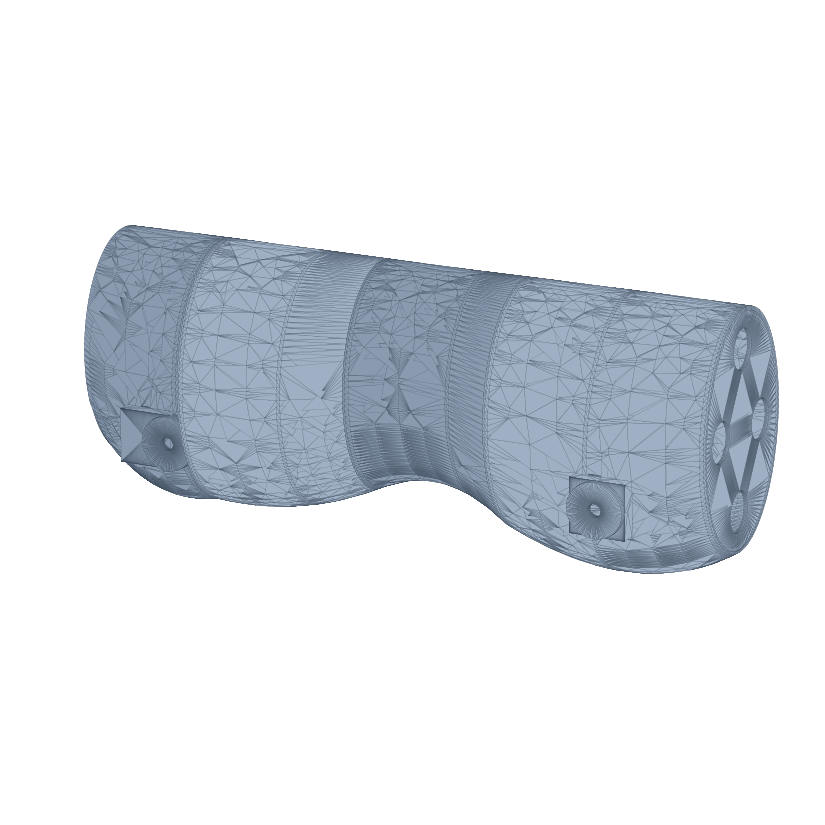
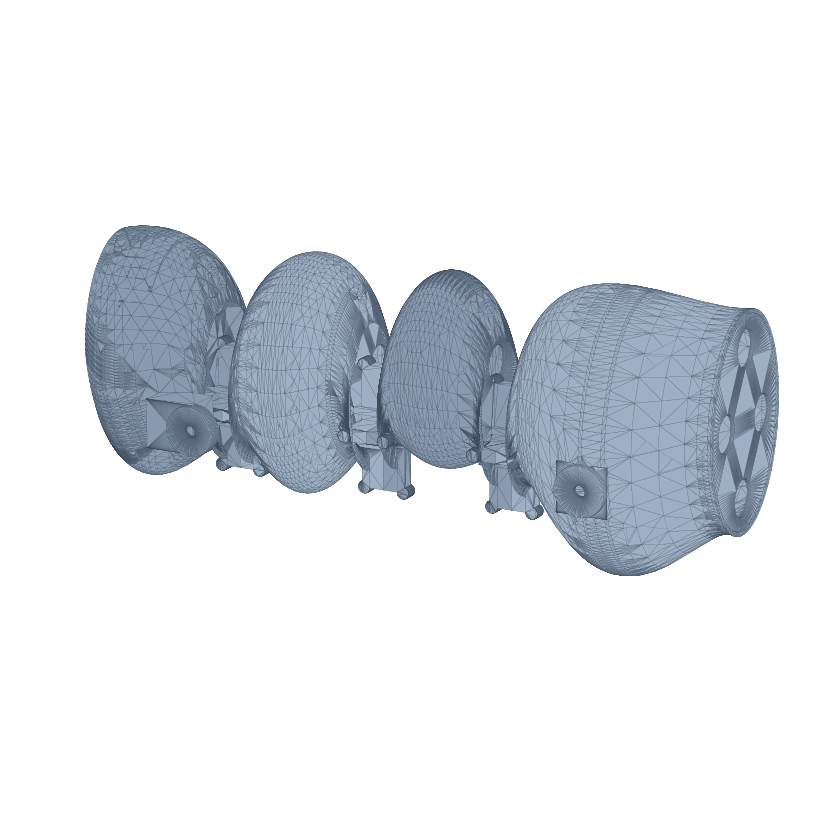
M89: spine joints, and four things a render cannot show
Cardan joints at ADR-0006's three stations: a hub with two orthogonal pins, a
yoke straddling in z on the proximal body (yaw) and in y on the distal (pitch).
Two pins, 2 DOF, nothing more. The cable posts fall out of the moment arms --
30 mm dorsoventral, 20 mm lateral -- and land where a vertebra's spinous and
transverse processes are, which was not designed in, it is what the arms are.

Four rigid bodies, one part each, 18 of 18 motors, 38.6 % packing.

A butt joint cannot bend
------------------------
At the ROM ADR-0006 specifies (±25° dorsoventral) a flat end face closes on its
neighbour by `half_height · tan 25` = **23-27 mm** at full section. The trunk
necks down at every joint instead, which is what a cat does, and the neck is
centred on the SPINE AXIS rather than the barrel's own centreline -- necking
about the centreline lifted the belly to z = 0.3 mm at the waist and left the
joint level with the underside of the body, with the cross hanging outside it.

So the structure is a string of beads and the silhouette is not continuous. It
is not supposed to be: a cat's back runs smooth over vertebrae that do exactly
this. Carrying the form is the skin's job, and the skin is not built.

What report() caught
--------------------
Every one of these rendered as a convincing trunk:

- a 44.1 mm motor row placed from a joint hung out the far end of a 51 mm body;
- the two chest rows sat 26 mm apart when a row is 44.1 long -- the motors
  interpenetrated;
[…]

Changed region(s): [[0.0909, 0.2727, 0.9394, 0.697]]

diff --git a/mechanical/cad/tomcat_trunk.py b/mechanical/cad/tomcat_trunk.py
@@ -84,39 +84,80 @@ ROWS = {
 #: body when a row is 44.1 long, so the motors interpenetrated. `report()`
 #: checks both now.
 _PAD = BULKHEAD_T + 0.5
-LAYOUT = [
-    # (name, body, x of the row centre, motors in the row)
-    ("front_girdle", 3, 140.0 + 1.5 * ROW_L + 3 * _PAD, 4),
-    ("spine3", 3, 140.0 + 0.5 * ROW_L + _PAD, 4),
-    ("spine2", 2, 75.0 + 0.5 * ROW_L + _PAD, 2),
-    ("spine1", 1, 0.0 + 0.5 * ROW_L + _PAD, 4),
-    ("rear_girdle", 0, -(0.5 * ROW_L + _PAD), 4),
-]
 
 #: The three spine joints, at the proximal end of each segment.
 JOINT_X = (0.0, 75.0, 140.0)
-#: Rigid body extent along x, from the joints and the rows they carry.
+
+#: ⚠ **Two barrels butt-jointed cannot bend.** At the ROM ADR-0006 specifies
+#: -- +/-25 deg dorsoventral, +/-15 lateral -- a flat end face closes on its
+#: neighbour by `half_height * tan(25)`, which is **23-27 mm** at full section.
+#: A cat solves it the way this does: the trunk necks down where it bends.
+NECK = 0.52
+#: Gap between two bodies at a joint, and how far the neck reaches either side.
+JOINT_GAP = 14.0
+NECK_SPAN = 15.0
+
+#: Rows sit clear of the neck zones, one per rigid body except the chest.
+#: ⚠ Rows are CENTRED in their own rigid body. Measuring them from a joint
+#: instead put a 44.1 mm row into a 51 mm body starting 32 mm in, and it hung out
+#: the far end -- `report()` caught it, the render did not.
+LAYOUT = [
+    # (name, body, x of the row centre, motors in the row)
+    ("front_girdle", 3, 1.00, 4),
+    ("spine3", 3, 0.00, 4),
+    ("spine2", 2, 0.50, 2),
+    ("spine1", 1, 0.50, 4),
+    ("rear_girdle", 0, 0.50, 4),
+]
+
+#: Rigid body extent along x. Each end retreats from its joint by half the gap.
 BODIES = {
-    0: (-(ROW_L + 2 * _PAD), 0.0),
-    1: (0.0, 75.0),
-    2: (75.0, 140.0),
-    3: (140.0, 140.0 + 2 * ROW_L + 4 * _PAD),
+    0: (-(NECK_SPAN + ROW_L + 2 * _PAD), -JOINT_GAP / 2),
+    1: (JOINT_GAP / 2, 75.0 - JOINT_GAP / 2),
+    2: (75.0 + JOINT_GAP / 2, 140.0 - JOINT_GAP / 2),
+    3: (140.0 + JOINT_GAP / 2,
+        140.0 + NECK_SPAN + 2 * ROW_L + 4 * _PAD),
 }
 
 
+def _row_x(body, frac):
+    x0, x1 = BODIES[body]
+    return x0 + ROW_L / 2 + _PAD + frac * max(
+        (x1 - x0) - ROW_L - 2 * _PAD, 0.0)
+
+
+def _rows():
+    """(name, body, absolute x, motors) with the fractions resolved."""
+    return [(nm, b, _row_x(b, f), n) for (nm, b, f, n) in LAYOUT]
+
+
 def _hw(name):
-    return ROWS[dict((n, k) for n, _b, _x, k in LAYOUT)[name]][1] + WALL
+    return ROWS[dict((n, k) for n, _b, _x, k in _rows())[name]][1] + WALL
 
 
 def _sections():
-    """(x, half-width) control points, chest to tail, for the lofted skin."""
-    pts = []
-    for (name, _b, x, n) in LAYOUT:
-        pts.append((x, ROWS[n][1] + WALL))
+    """(x, half-width) control points, chest to tail, for the lofted skin.
+
+    ✅ A **neck** at every joint. Without it the barrels cannot reach the ROM,
+    and with it the waist lands where a cat's waist is.
+    """
+    pts = [(x, ROWS[n][1] + WALL) for (_nm, _b, x, n) in _rows()]
     pts.sort()
-    lo = BODIES[0][0]
-    hi = BODIES[3][1]
-    pts = ([(lo, pts[0][1] * 0.86)] + pts + [(hi, pts[-1][1] * 0.90)])
+    lo, hi = BODIES[0][0], BODIES[3][1]
+    pts = [(lo, pts[0][1] * 0.86)] + pts + [(hi, pts[-1][1] * 0.90)]
+
+    def lerp(x):
+        for (a2_, ha), (b2_, hb) in zip(pts[:-1], pts[1:]):
+            if a2_ - 1e-9 <= x <= b2_ + 1e-9:
+                t = 0.0 if b2_ == a2_ else (x - a2_) / (b2_ - a2_)
+                return ha + (hb - ha) * t
+        return pts[-1][1]
+
+    for jx in JOINT_X:
+        for dx in (-NECK_SPAN, 0.0, NECK_SPAN):
+            f = NECK if dx == 0.0 else 0.5 * (1.0 + NECK)
+            pts.append((jx + dx, lerp(jx + dx) * f))
+    pts.sort()
     return pts
 
 
@@ -130,9 +171,51 @@ def _sections():
 Z_DORSAL = Z0 + 40.5 * ASPECT
 
 
+def _row_hw_at(x):
+    """Half-width interpolated over the ROW sections only, ignoring the necks.
+
+    ⚠ The centreline must not follow the neck. Hanging it from the dorsal line
+    with the neck included pinched the section at the joint AND dropped its
+    centre, so the belly leapt 62 mm at the waist. The body's mid-line runs
+    smoothly through a joint; only its RADIUS pinches.
+    """
+    pts = [(x2, ROWS[n][1] + WALL) for (_nm, _b, x2, n) in _rows()]
+    pts.sort()
+    lo, hi = BODIES[0][0], BODIES[3][1]
+    pts = [(lo, pts[0][1] * 0.86)] + pts + [(hi, pts[-1][1] * 0.90)]
+    for (a2_, ha), (b2_, hb) in zip(pts[:-1], pts[1:]):
+        if a2_ - 1e-9 <= x <= b2_ + 1e-9:
+            t = 0.0 if b2_ == a2_ else (x - a2_) / (b2_ - a2_)
+            return ha + (hb - ha) * t
+    return pts[-1][1]
+
+
+def _pinch(x):
+    """0 away from a joint, 1 at one -- how far the section has necked down."""
+    best = 0.0
+    for jx in JOINT_X:
+        d = abs(x - jx)
+        if d < NECK_SPAN:
+            best = max(best, 1.0 - d / NECK_SPAN)
+    return best
+
+
 def _zc(x):
-    """Vertical centre of the section at x -- hung from the dorsal line."""
-    return Z_DORSAL - _hw_at(x) * ASPECT
+    """Vertical centre of the section at x.
+
+    Away from a joint it hangs from the dorsal line, which is what tucks the
+    belly up. ⚠ **At a joint it blends to the SPINE AXIS**, because that is
+    where the vertebra is. Necking about the barrel's own centreline instead
+    lifted the belly to z = 0.3 mm at the waist -- the joint ended up level with
+    the underside of the body, and the cross would have hung outside it.
+
+    ✅ So the structure narrows to a bead on the spine at every joint and the
+    silhouette is not continuous. It is not supposed to be: a cat's back runs
+    smooth over vertebrae that do exactly this, and the skin is what carries the
+    form.
+    """
+    f = _pinch(x)
+    return (Z_DORSAL - _row_hw_at(x) * ASPECT) * (1.0 - f)
 
 
 def _ell(x, hw):
@@ -162,7 +245,7 @@ def body_shell(body: int):
 def motors(body: int):
     """(x, y, z, r) of every motor bore assigned to this rigid body."""
     out = []
-    for (name, b, x, n) in LAYOUT:
+    for (name, b, x, n) in _rows():
         if b != body:
             continue
         for (y, z) in ROWS[n][0]:
@@ -189,7 +272,7 @@ def _bulkhead_x(body: int):
     """
     x0, x1 = BODIES[body]
     xs = []
-    for (_name, b, x, n) in LAYOUT:
+    for (_name, b, x, n) in _rows():
         if b != body:
             continue
         for sx in (-1.0, 1.0):
@@ -220,7 +303,7 @@ def bulkheads(body: int):
     for (xb, n) in _bulkhead_x(body):
         slab = Pos(xb, 0, Z_DORSAL) * Box(BULKHEAD_T, 400, 400)
         cap = solid & slab
-        row = [r for (_nm, b, x, r) in LAYOUT
+        row = [r for (_nm, b, x, r) in _rows()
                if b == body and abs(x - xb) < ROW_L]
         for k in set(row):
             for (y, z) in ROWS[k][0]:
@@ -234,7 +317,7 @@ def bulkheads(body: int):
 def _unused_bulkheads(body: int):
     x0, x1 = BODIES[body]
     caps = []
-    for (name, b, x, n) in LAYOUT:
+    for (name, b, x, n) in _rows():
         if b != body:
             continue
         for sx in (-1.0, 1.0):
@@ -260,18 +343,28 @@ def hip_bosses(body: int):
     if body not in (0, 3):
         return []
     x = 0.0 if body == 0 else 195.0
-    hw = _hw("rear_girdle" if body == 0 else "front_girdle")
     out = []
     boss_r = HIP_OD / 2 + BOSS_WALL
     for side in (+1.0, -1.0):
         y_hip = side * TRACK
-        inner = hw - WALL
+        # ⚠ **The rear hip and the first spine joint are the same station.**
+        # ADR-0006 roots the chain at the trunk origin and the hind legs mount
+        # there too, so the boss lands exactly where the trunk necks down to
+        # bend -- 21 mm of half-width instead of 41.7. Attaching it to the row's
+        # width left it floating; attaching it to the LOCAL width makes it a
+        # 27 mm cantilever off a pinched section.
+        #
+        # A cat does not do this: the sacrum is fused into the pelvis and the
+        # first mobile lumbar joint sits well forward of the hip. Moving the
+        # joint forward is a kinematics change (ADR-0006's segment lengths), so
+        # it is named here rather than made.  `[owed]`
+        xa = x + (-boss_r if body == 0 else 0.0)
+        inner = _hw_at(xa) - WALL
         span = max(abs(y_hip) - inner, 1.0)
         # ⚠ The REAR hip sits exactly on the first spine joint (x = 0), so a
         # boss centred there is half in the next rigid body. It reaches back
         # into its own girdle instead; the tongue stays at x = 0, where the
         # kinematics puts the hip.
-        xa = x + (-boss_r if body == 0 else 0.0)
         arm = Pos(xa, side * (inner + span / 2), 0) * Box(2 * boss_r, span,
                                                           2 * boss_r)
         axis = Plane(origin=(x, y_hip, 0), z_dir=(0, side, 0)).location
@@ -281,12 +374,102 @@ def hip_bosses(body: int):
     return out
 
 
+#: Cross-joint hardware. Bore and pin follow the ankle bearing the leg already
+#: specs, which is the smallest the project has qualified.
+PIN_D = LD.BEARING["ankle"][0]
+HUB_R = 6.0
+YOKE_T = 3.0
+#: Cable posts: the dorsoventral pair at ADR-0006's 30 mm arm and the lateral
+#: pair at ADR-0009's 20 mm. ✅ These are a vertebra's spinous and transverse
+#: processes, arrived at from the moment arms rather than from the anatomy.
+POST_R = 3.0
+DORSAL_ARM = float(SP.joint_moment_arm[0]) * MM
+LATERAL_ARM = float(SP.lateral_moment_arm[0]) * MM
+
+
+def yoke(jx: float, distal: bool):
+    """The fork one body presents to the cross.
+
+    ⚠ **The spine joint sits at z = 0, the hip axis** -- where `mjcf_tendon`
+    puts it -- not on the barrel's centreline. In an animal the vertebral column
+    is DORSAL and the belly hangs from it; here it runs along the underside.
+    Moving it is a kinematics change (it shifts every CoM and the sway lever), so
+    the hardware is built where the model says and the conflict is named.
+    `[owed]`
+
+    The proximal fork straddles in z and carries the z pin, so it yaws; the
+    distal fork straddles in y and carries the y pin, so it pitches. Two
+    orthogonal pins through one hub is a Cardan joint, which is the 2 DOF
+    ADR-0006 asks for and nothing more.
+    """
+    sgn = +1.0 if distal else -1.0
+    reach = JOINT_GAP / 2 + HUB_R + 2.0
+    arms = []
+    off = HUB_R + YOKE_T / 2 + 0.4
+    for s in (-1.0, +1.0):
+        c = (0.0, s * off, 0.0) if distal else (0.0, 0.0, s * off)
+        size = ((reach, YOKE_T, 2 * HUB_R) if distal
+                else (reach, 2 * HUB_R, YOKE_T))
+        arm = Pos(jx + sgn * reach / 2, c[1], c[2]) * Box(*size)
+        arms.append(arm)
+    fork = arms[0] + arms[1]
+    axis = (Rot(90, 0, 0) if distal else Rot(0, 0, 0))
+    return fork - (Pos(jx, 0, 0) * (axis * Cylinder(PIN_D / 2, 4 * off)))
+
+
+def cross(jx: float):
+    """The centre piece: a hub with two orthogonal pins."""
+    off = HUB_R + YOKE_T / 2 + 0.4
+    hub = Pos(jx, 0, 0) * Box(2 * HUB_R, 2 * HUB_R, 2 * HUB_R)
+    pin_y = Pos(jx, 0, 0) * (Rot(90, 0, 0) * Cylinder(PIN_D / 2 - 0.05,
+                                                      2 * (off + YOKE_T)))
+    pin_z = Pos(jx, 0, 0) * Cylinder(PIN_D / 2 - 0.05, 2 * (off + YOKE_T))
+    return hub + pin_y + pin_z
+
+
+def processes(jx: float, distal: bool):
+    """Spinous and transverse posts, where the spine cables get their arm."""
+    sgn = +1.0 if distal else -1.0
+    x = jx + sgn * (JOINT_GAP / 2 + POST_R)
+    out = []
+    # ⚠ The stem used to end exactly ON the body's end face. Coplanar faces are
+    # the classic OCC boolean failure and it did not error -- it returned a shape
+    # whose volume had collapsed from 37,293 to 509 mm3, and only `report()`'s
+    # solid count and the volume column showed it. The stem reaches 4 mm INTO
+    # the body now, so the faces cross instead of touching.
+    BITE = 4.0
+    for (y, z) in ((0.0, DORSAL_ARM), (0.0, -DORSAL_ARM),
+                   (LATERAL_ARM, 0.0), (-LATERAL_ARM, 0.0)):
+        stem = Pos(jx + sgn * (JOINT_GAP / 4 + BITE / 2), y * 0.5, z * 0.5) * Box(
+            JOINT_GAP / 2 + BITE, max(2 * POST_R, abs(y)),
+            max(2 * POST_R, abs(z)))
+        post = Pos(x, y, z) * (Rot(90, 0, 0) * Cylinder(POST_R, 2 * POST_R))
+        out += [stem, post]
+    return out
+
+
+def joint_parts(body: int):
+    """Yokes and processes belonging to this rigid body."""
+    x0, x1 = BODIES[body]
+    out = []
+    for jx in JOINT_X:
+        if abs(jx - x1) < JOINT_GAP:            # this body is PROXIMAL to it
+            out.append(yoke(jx, distal=False))
+            out += processes(jx, distal=False)
+        if abs(jx - x0) < JOINT_GAP:            # this body is DISTAL to it
+            out.append(yoke(jx, distal=True))
+            out += processes(jx, distal=True)
+    return out
+
+
 def rigid_body(body: int):
     g = body_shell(body)
     for c in bulkheads(body):
         g += c
     for h in hip_bosses(body):
         g += h
+    for j in joint_parts(body):
+        g += j
     return g
 
 
